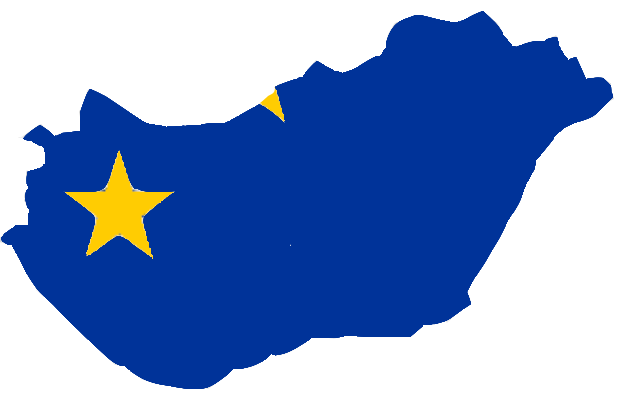
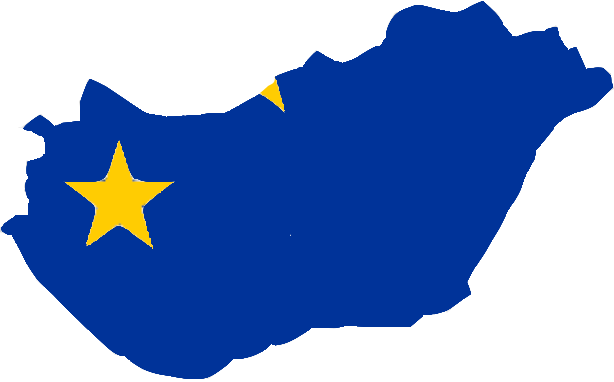
pictures

diff --git a/OSMwebapp/testAufgabe.html b/OSMwebapp/testAufgabe.html
@@ -153,7 +153,7 @@
 
         Luxenburg = L.imageOverlay('img-EU/Luxenburg.png',[[50.18446,5.72073],[49.44570,6.51175]],{opacity:1}).addTo(mymap);
 
-        Hungary = L.imageOverlay('img-EU/Hungary.png',[[48.60508,16.11591],[45.73038,22.96546]],{opacity:1}).addTo(mymap);
+        Hungary = L.imageOverlay('img-EU/Hungary.png',[[48.70508,16.11591],[45.73038,22.96546]],{opacity:1}).addTo(mymap);
 
         Slovakia = L.imageOverlay('img-EU/Slovakia.png',[[49.62573,16.81903],[47.70480,22.59784]],{opacity:1}).addTo(mymap);
 
